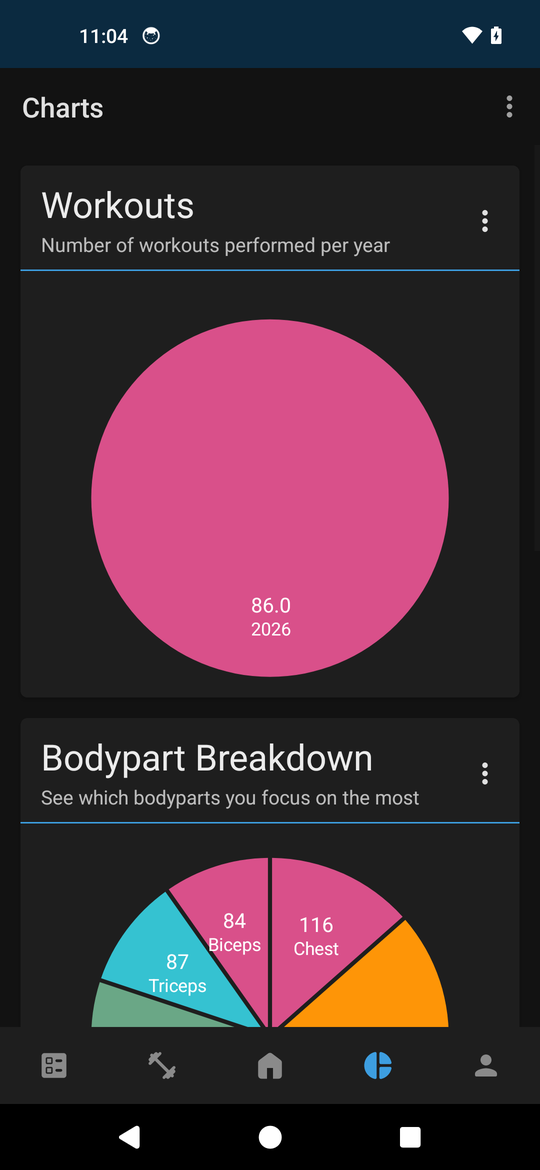
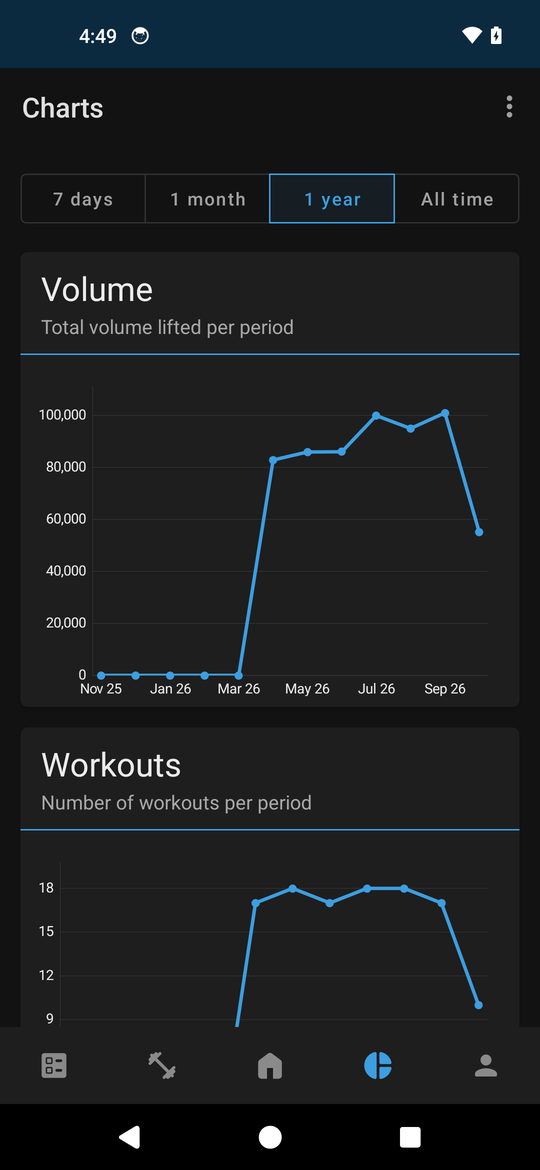
Polish charts range buttons, refresh README screenshots and docs

diff --git a/README.md b/README.md
@@ -29,8 +29,9 @@ Verifit replaces the pencil-and-paper logbook. Its UI is inspired by FitNotes an
 |---|---|
 | **Tracking** | Log sets, reps and weight; create custom exercises; add exercise comments; edit or delete anything |
 | **Stats** | Volume, actual 1RM, estimated 1RM, personal records, sets per week and more |
-| **Per-exercise graphs** | Pick a metric (volume, weight, reps, estimated 1RM, sets, average weight) and a time range, and see best, average, latest and % change |
-| **Charts** | Workouts per year, body-part and exercise distribution |
+| **Per-exercise graphs** | Pick a metric (volume, weight, reps, estimated 1RM, sets, average weight) and a time range (7 days to all time), and see best, average, latest and % change |
+| **Charts** | Line charts for volume, workouts, sets per body part and your most trained exercises, over 7 days, 1 month, 1 year or all time |
+| **Languages** | English, Español, Français, Deutsch, Italiano and Português, following your device language |
 | **Dark mode** | Follows the system theme, or force light or dark in Settings |
 | **Backups** | Import and export from phone storage or a WebDAV server, with automatic WebDAV backups |
 | **Extras** | Rest timer and plate calculator |
@@ -46,11 +47,12 @@ Verifit replaces the pencil-and-paper logbook. Its UI is inspired by FitNotes an
   <img width="200" src="metadata/screenshots/dark-charts.png">
   <img width="200" src="metadata/screenshots/dark-exercise-graph.png">
   <img width="200" src="metadata/screenshots/dark-settings.png">
+  <img width="200" src="metadata/screenshots/spanish-charts.png">
 </p>
 
 ## Install
 
-Grab the latest APK from the [Releases](https://github.com/elraro/verifit/releases) page, or build it yourself (see below).
+Grab `verifit-release.apk` from the latest [Release](https://github.com/elraro/verifit/releases) and install it. Releases are signed with a fixed key, so you can update in place from one version to the next.
 
 ## Build from source
 
@@ -65,7 +67,11 @@ echo "sdk.dir=/path/to/Android/Sdk" > local.properties
 
 The APK is written to `verifit/build/outputs/apk/debug/`.
 
-Pushing a tag such as `v1.0.15` makes the GitHub Actions workflow build the app and publish a release.
+### Releasing
+
+Pushing a tag such as `v1.3` makes the GitHub Actions workflow build, sign and publish a release. Signing needs four repository secrets (Settings → Secrets and variables → Actions): `KEYSTORE_BASE64` (the keystore, base64-encoded), `KEYSTORE_PASSWORD`, `KEY_ALIAS` and `KEY_PASSWORD`. Tagged builds fail when they are missing, so an unsigned or differently signed APK is never published. Keep the keystore safe: without it, installed apps can no longer be updated.
+
+To sign a local build, export `KEYSTORE_FILE`, `KEYSTORE_PASSWORD`, `KEY_ALIAS` and `KEY_PASSWORD` and run `./gradlew :verifit:assembleRelease`.
 
 ## Set up a WebDAV server
 
